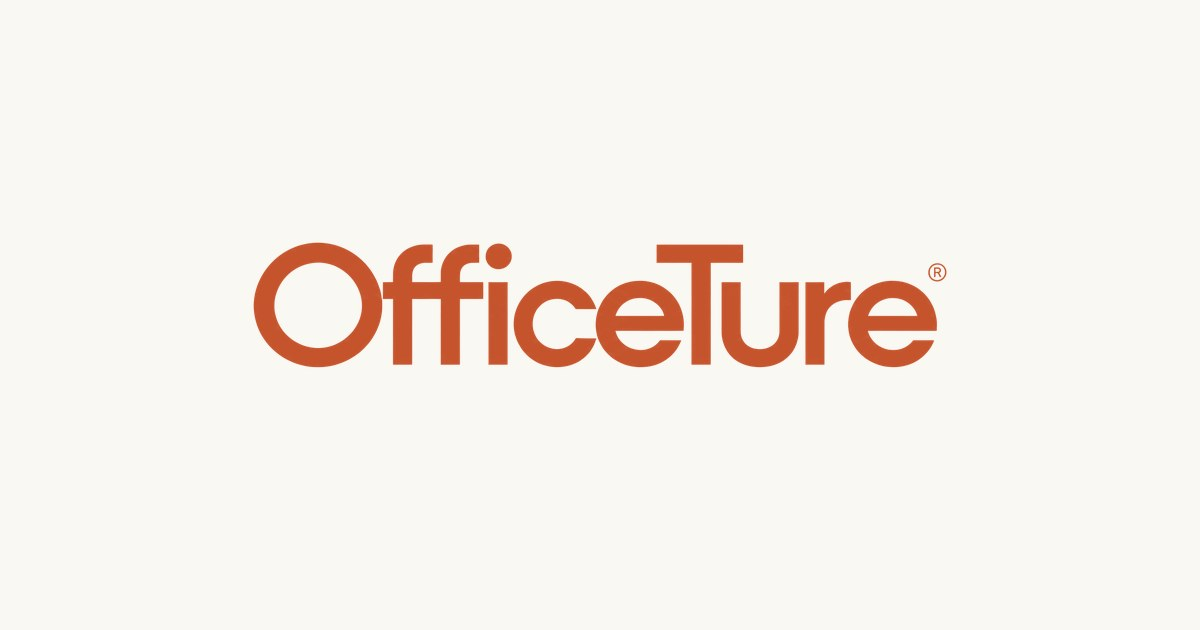
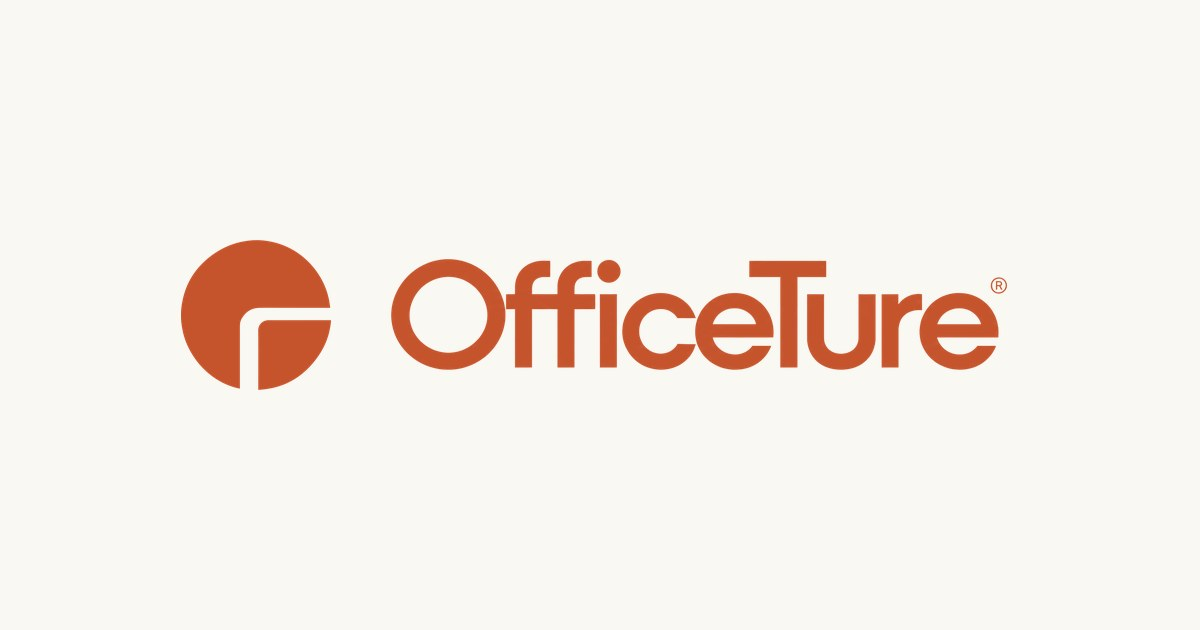
Isotipo nuevo y sección «Marca» en la portada
El isotipo (círculo con esquina en negativo) entra como favicon, icono,
marca de agua del menú, de la vitrina y de la tarjeta de WhatsApp, y en
og.jpg junto al wordmark. Nueva sección #marca con isotipo, logotipo,
paleta y tipografía como adelanto del branding. Fuera el sillón.

Changed region(s): [[0.1233, 0.3619, 0.8325, 0.6333]]

diff --git a/index.html b/index.html
@@ -83,7 +83,7 @@
 </header>
 
 <div class="menu-movil" id="menu-movil" aria-hidden="true">
-  <img class="menu-sillon" src="img/sillon-sage.png" alt="" width="900" height="962">
+  <img class="menu-sillon" src="img/isotipo-sage.png" alt="" width="1000" height="1000">
   <nav aria-label="Secciones">
     <a href="#nosotros"><small>01</small>Nosotros</a>
     <a href="inventario.html"><small>02</small>Catálogo</a>
@@ -185,6 +185,43 @@
       <div><b>+20</b><span>oficinas equipadas en Nuevo León</span></div>
       <div><b>100<small>%</small></b><span>diseño y fabricación mexicana</span></div>
     </div>
+  </div>
+</section>
+
+<!-- ============ MARCA ============ -->
+<section class="marca" id="marca">
+  <div class="cont">
+    <div class="seccion-cabeza aparece">
+      <p class="ceja">Marca &middot; Identidad 2026</p>
+      <h2>Una marca que se <em>reconoce.</em></h2>
+      <p class="bajada">Estamos renovando la identidad de OfficeTure. Este es un adelanto de lo que verás en nuestras oficinas, empaques y redes: el isotipo, el logotipo, la paleta y la tipografía.</p>
+    </div>
+    <div class="marca-rejilla aparece">
+      <figure class="marca-tarjeta marca-iso">
+        <img src="img/isotipo-marfil.png" alt="Isotipo de OfficeTure: un círculo con una esquina en negativo" width="1000" height="1000" loading="lazy">
+        <figcaption><small>Isotipo</small>El círculo con la esquina en negativo.</figcaption>
+      </figure>
+      <figure class="marca-tarjeta marca-logo">
+        <img src="img/wordmark-terracota.png" alt="Logotipo OfficeTure" width="1286" height="276" loading="lazy">
+        <figcaption><small>Logotipo</small>OfficeTure&reg; en terracota.</figcaption>
+      </figure>
+      <div class="marca-tarjeta marca-paleta">
+        <small>Paleta</small>
+        <ul>
+          <li style="--c:#2f3a2a"><span>Oliva</span></li>
+          <li style="--c:#8a9a72"><span>Sage</span></li>
+          <li style="--c:#cbbda9"><span>Beige</span></li>
+          <li style="--c:#efeae0"><span>Marfil</span></li>
+          <li style="--c:#c5532c"><span>Terracota</span></li>
+        </ul>
+      </div>
+      <div class="marca-tarjeta marca-tipo">
+        <small>Tipografía</small>
+        <b>Aa</b>
+        <span>Poppins &middot; light, medium y semibold</span>
+      </div>
+    </div>
+    <p class="marca-nota aparece">Identidad en desarrollo con Top Digital. Los acabados finales se definen con los dueños de la marca.</p>
   </div>
 </section>
 
@@ -311,7 +348,7 @@
       </div>
     </div>
     <div class="tarjeta-wa aparece">
-      <img src="img/sillon-marfil.png" alt="" aria-hidden="true" width="900" height="962">
+      <img src="img/isotipo-marfil.png" alt="" aria-hidden="true" width="1000" height="1000">
       <p class="ceja">Cotización</p>
       <h3>En 30 minutos <em>o menos.</em></h3>
       <p>Mándanos WhatsApp con qué necesitas y cuántas piezas. Te respondemos con modelos disponibles, precio y tiempo de entrega.</p>

diff --git a/css/estilo.css b/css/estilo.css
@@ -378,6 +378,43 @@ body.menu-abierto .barra .logo-claro{opacity:1}
 }
 @media (prefers-reduced-motion:reduce){.plano{transition:none}.plano .pod,.plano .zona-g{transition:none}.plano .pop{animation:none}}
 
+/* ---------- marca (adelanto del branding) ---------- */
+.marca{background:var(--marfil);padding:96px 0}
+.marca-rejilla{display:grid;gap:14px}
+.marca-tarjeta{position:relative;border-radius:var(--radio);overflow:hidden;margin:0;display:grid;min-height:220px}
+.marca-tarjeta small{font-size:10.5px;letter-spacing:.22em;text-transform:uppercase;font-weight:500;color:var(--sage)}
+.marca-tarjeta figcaption{padding:0;font-size:14px;color:var(--texto);line-height:1.45;display:grid;gap:6px}
+.marca-iso{background:var(--madera);aspect-ratio:1;place-items:center;padding:12%;color:var(--marfil)}
+.marca-iso img{width:min(100%,420px);height:auto;filter:none}
+.marca-iso figcaption{position:absolute;left:24px;bottom:22px;color:rgba(239,234,224,.9)}
+.marca-iso small{color:rgba(239,234,224,.65)}
+.marca-logo{background:var(--crema);border:1px solid var(--linea);place-items:center;padding:12% 10% 64px}
+.marca-logo img{width:min(100%,520px);height:auto}
+.marca-logo figcaption{position:absolute;left:24px;bottom:22px}
+.marca-paleta{background:#fff;border:1px solid var(--linea);padding:22px 24px 24px;gap:16px;align-content:start}
+.marca-paleta ul{display:grid;grid-template-columns:repeat(5,1fr);gap:8px;height:150px}
+.marca-paleta li{position:relative;background:var(--c);border-radius:14px;border:1px solid rgba(31,36,27,.08)}
+.marca-paleta li span{position:absolute;left:0;right:0;bottom:-22px;font-size:10px;letter-spacing:.14em;text-transform:uppercase;font-weight:500;color:var(--tenue);text-align:center;white-space:nowrap}
+.marca-paleta ul{margin-bottom:26px}
+.marca-tipo{background:var(--oliva);color:var(--marfil);padding:22px 24px 24px;gap:8px;align-content:space-between}
+.marca-tipo small{color:var(--sage-claro)}
+.marca-tipo b{font-weight:600;font-size:clamp(96px,22vw,150px);line-height:.9;letter-spacing:-.05em;color:var(--marfil)}
+.marca-tipo span{font-size:13px;letter-spacing:.04em;color:var(--sage-claro)}
+.marca-nota{margin-top:28px;font-size:12.5px;color:var(--tenue);max-width:60ch}
+@media (min-width:760px){
+  .marca{padding:130px 0}
+  .marca-rejilla{grid-template-columns:5fr 7fr;grid-template-rows:auto auto;gap:20px}
+  .marca-iso{grid-row:1/3;aspect-ratio:auto;min-height:520px}
+  .marca-logo{min-height:280px}
+  .marca-rejilla>.marca-paleta,.marca-rejilla>.marca-tipo{min-height:220px}
+}
+@media (min-width:1000px){
+  .marca-rejilla{grid-template-columns:5fr 4fr 3fr}
+  .marca-iso{grid-row:1/3}
+  .marca-logo{grid-column:2/4}
+  .marca-tarjeta figcaption{font-size:15px}
+}
+
 /* ---------- 03 proyectos ---------- */
 .proyectos{background:var(--oliva);color:rgba(239,234,224,.82);padding:96px 0}
 .proyectos h2,.proyectos h3{color:var(--marfil)}

diff --git a/inventario.html b/inventario.html
@@ -82,7 +82,7 @@
 </header>
 
 <div class="menu-movil" id="menu-movil" aria-hidden="true">
-  <img class="menu-sillon" src="img/sillon-sage.png" alt="" width="900" height="962">
+  <img class="menu-sillon" src="img/isotipo-sage.png" alt="" width="1000" height="1000">
   <nav aria-label="Secciones">
     <a href="index.html#nosotros"><small>01</small>Nosotros</a>
     <a href="inventario.html"><small>02</small>Catálogo</a>
@@ -118,7 +118,7 @@
         <img data-stage="semiejecutivo" src="img/prod-semiejecutivo.webp" alt="" width="1200" height="1600" loading="lazy">
         <img data-stage="ejecutivo" src="img/prod-ejecutivo.webp" alt="" width="1200" height="1600" loading="lazy">
         <div class="stage-pie"><b id="stage-num">01</b><span id="stage-nombre">Sillas operativas y ejecutivas</span></div>
-        <div class="stage-sello"><img src="img/sillon-marfil.png" alt="" width="900" height="962"></div>
+        <div class="stage-sello"><img src="img/isotipo-marfil.png" alt="" width="1000" height="1000"></div>
       </div>
 
       <div class="show-lista" id="show-lista">

diff --git a/equipa.html b/equipa.html
@@ -82,7 +82,7 @@
 </header>
 
 <div class="menu-movil" id="menu-movil" aria-hidden="true">
-  <img class="menu-sillon" src="img/sillon-sage.png" alt="" width="900" height="962">
+  <img class="menu-sillon" src="img/isotipo-sage.png" alt="" width="1000" height="1000">
   <nav aria-label="Secciones">
     <a href="index.html#nosotros"><small>01</small>Nosotros</a>
     <a href="inventario.html"><small>02</small>Catálogo</a>

diff --git a/CLAUDE.md b/CLAUDE.md
@@ -23,7 +23,7 @@ La marca vieja era menta #a0ccc7 + azul #92b1e7 con un logo de silla en trazos; 
 **Identidad nueva** (deck «Somos Top Digital - OfficeTure Branding», 20 láminas, se presenta a los dueños el 9-oct-2026):
 
 - **Logos**: dos isotipos, **el sello** (silla dentro de un círculo; va en la barra del sitio y como avatar) y **el sillón** (sillón suelto; marca de agua, menú móvil, cinta). Wordmark «OfficeTure». Pendiente que los dueños elijan el isotipo principal para el registro.
-  - **Actualización 14-oct-2026**: el cliente entregó un **wordmark «OfficeTure®» en terracota `#c5532c`** (sin isotipo). Es el logo que usa el sitio en la barra (`img/wordmark-marfil.png` sobre foto, `img/wordmark-terracota.png` sobre fondo claro), en el pie, en el favicon (la «O») y en `og.jpg`. El acento `--madera` del CSS pasó a ese terracota. El sillón sigue solo como marca de agua decorativa.
+  - **Actualización 14-oct-2026**: el cliente entregó un **wordmark «OfficeTure®» en terracota `#c5532c`** (sin isotipo). Es el logo que usa el sitio en la barra (`img/wordmark-marfil.png` sobre foto, `img/wordmark-terracota.png` sobre fondo claro), en el pie, en el favicon (la «O») y en `og.jpg`. El acento `--madera` del CSS pasó a ese terracota. El cliente también entregó el **isotipo nuevo**: un círculo con una esquina en negativo (`img/isotipo-{terracota,marfil,oliva,sage}.png`); sustituye al sillón como marca de agua del menú, de la vitrina y de la tarjeta de WhatsApp, y es el favicon. La portada tiene una sección «Marca» (`#marca`) que muestra isotipo, logotipo, paleta y tipografía como adelanto del branding. Los SVG vectorizados del wordmark y el isotipo están en el Escritorio de Jair (OneDrive).
 - **Paleta**: oliva `#2f3a2a` (fondo principal y texto fuerte, tinta `#1f241b`), sage `#8a9a72` (acentos, cejas; claro `#b7c2a3`), beige `#cbbda9`, marfil `#efeae0` (fondo claro; crema `#faf8f3`, marfil-2 `#f6f3ec`), madera `#b57a3e` (SOLO botones y una palabra en cursiva por título; hover `#9d6632`). Texto `#4a4f43`, tenue `#8a8c80`.
 - **Tipografía**: el deck ya usa **solo Poppins** (semibold para titulares con tracking -.035em, light para texto, medium en versalitas con tracking .2em para etiquetas, Light Italic en madera para la palabra acento). El sitio v2 todavía está en Fraunces + Outfit: **hay que pasarlo a Poppins** para que quede parejo con el deck.
 - **Tono de voz**: «Espacios que te acompañan.» (frase de marca) · «Diseño para una vida real.» · «Mobiliario para espacios reales.» Habla de personas y de cómo trabajan, no solo de muebles; frases cortas, segunda persona, sin tecnicismos; promete cosas concretas (30 minutos, 1 a 2 días, instalado); nunca grita (sin mayúsculas para vender ni signos de exclamación); una palabra en cursiva y madera por título, nada más. Pilares: humano, elegante, funcional.
